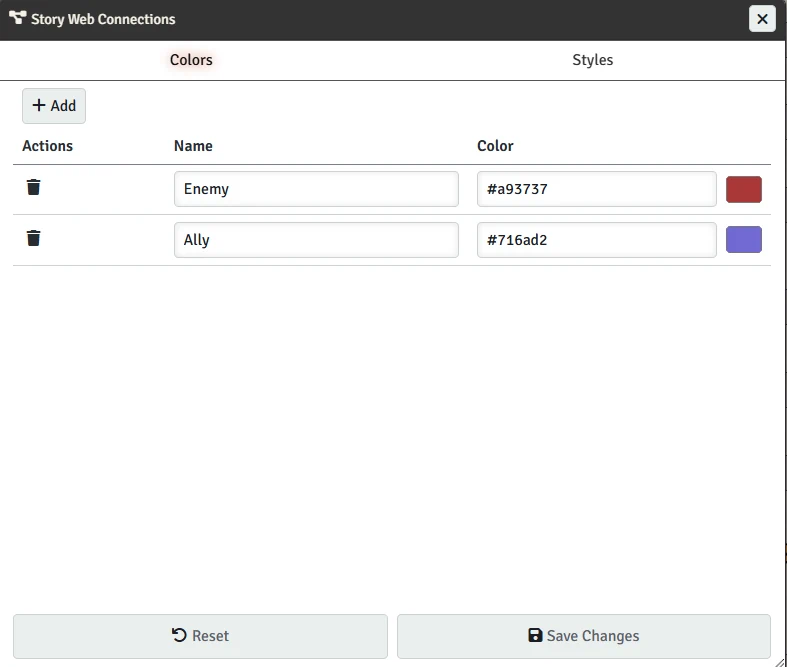
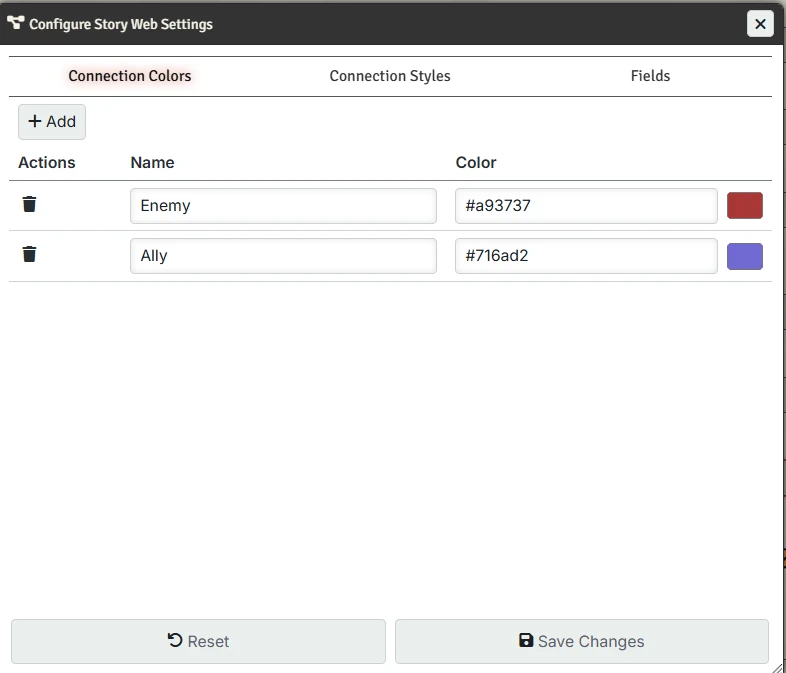
doc update

diff --git a/docs/reference/configuration/story-webs.md b/docs/reference/configuration/story-webs.md
@@ -17,7 +17,7 @@ See [Story Web Connection Styles](/reference/campaign-mgt/content/storyWeb#conne
 > [!NOTE]
 > No changes are saved in this dialog until you hit "Save Changes". You can use the "Reset" button to revert any unsaved changes.
 
-## Colors Tab
+## Connection Colors Tab
 
 ![Colors Tab](/assets/images/story-web-config-colors.webp)
 
@@ -30,7 +30,7 @@ The Colors tab allows you to manage the color palette available for story web co
 - **Color** - Click the color picker to choose a custom color
 - **Delete** - Remove a color with the trash icon
 
-## Styles Tab
+## Connection Styles Tab
 
 The Styles tab allows you to configure the line styles available for story web connections.
 
@@ -45,29 +45,18 @@ The Styles tab allows you to configure the line styles available for story web c
   - **Dashed** - Broken line with regular gaps
   - **Dotted** - Line made of dots
   - **Dash-Dot** - Alternating dashes and dots
+
 - **Delete** - Remove a style with the trash icon
 
-### Usage
 
-Line styles help distinguish different relationship characteristics in your story webs. For example:
-- Solid lines for strong, established relationships
-- Dashed lines for tentative or developing connections
-- Dotted lines for indirect or weak associations
-- Dash-dot lines for complex or multifaceted relationships
+## Fields Tab
 
-## Applying Colors and Styles
+The Fields tab allows you to configure the tooltips that appear when hovering over an entity in a Story Web.  Each content type can have its own display  settings.
 
-Once you've configured your colors and styles, you can apply them to connections in your story webs by:
+![Fields Tab](/assets/images/story-web-config-fields.webp)
 
-1. Opening a [Story Web] for a campaign
-2. Selecting a connection between two entries
-3. Choosing the desired color and style from the available options
+### Managing Fields
 
-The configured options will appear in dropdown menus when editing connection properties in the story web interface.
+To manage the fields that display, first choose the content type you want to configure, then choose the field you want to add to the list and press "Add".  
 
-## Reset and Save
-
-- **Reset** - Reverts all changes to the last saved state
-- **Save Changes** - Persists your color and style configurations for use in all story webs
-
-Your custom configurations are saved globally and will be available for all campaigns and story webs in your world.
+You can then delete fields or reorder them by dragging and dropping them to a new position.  
